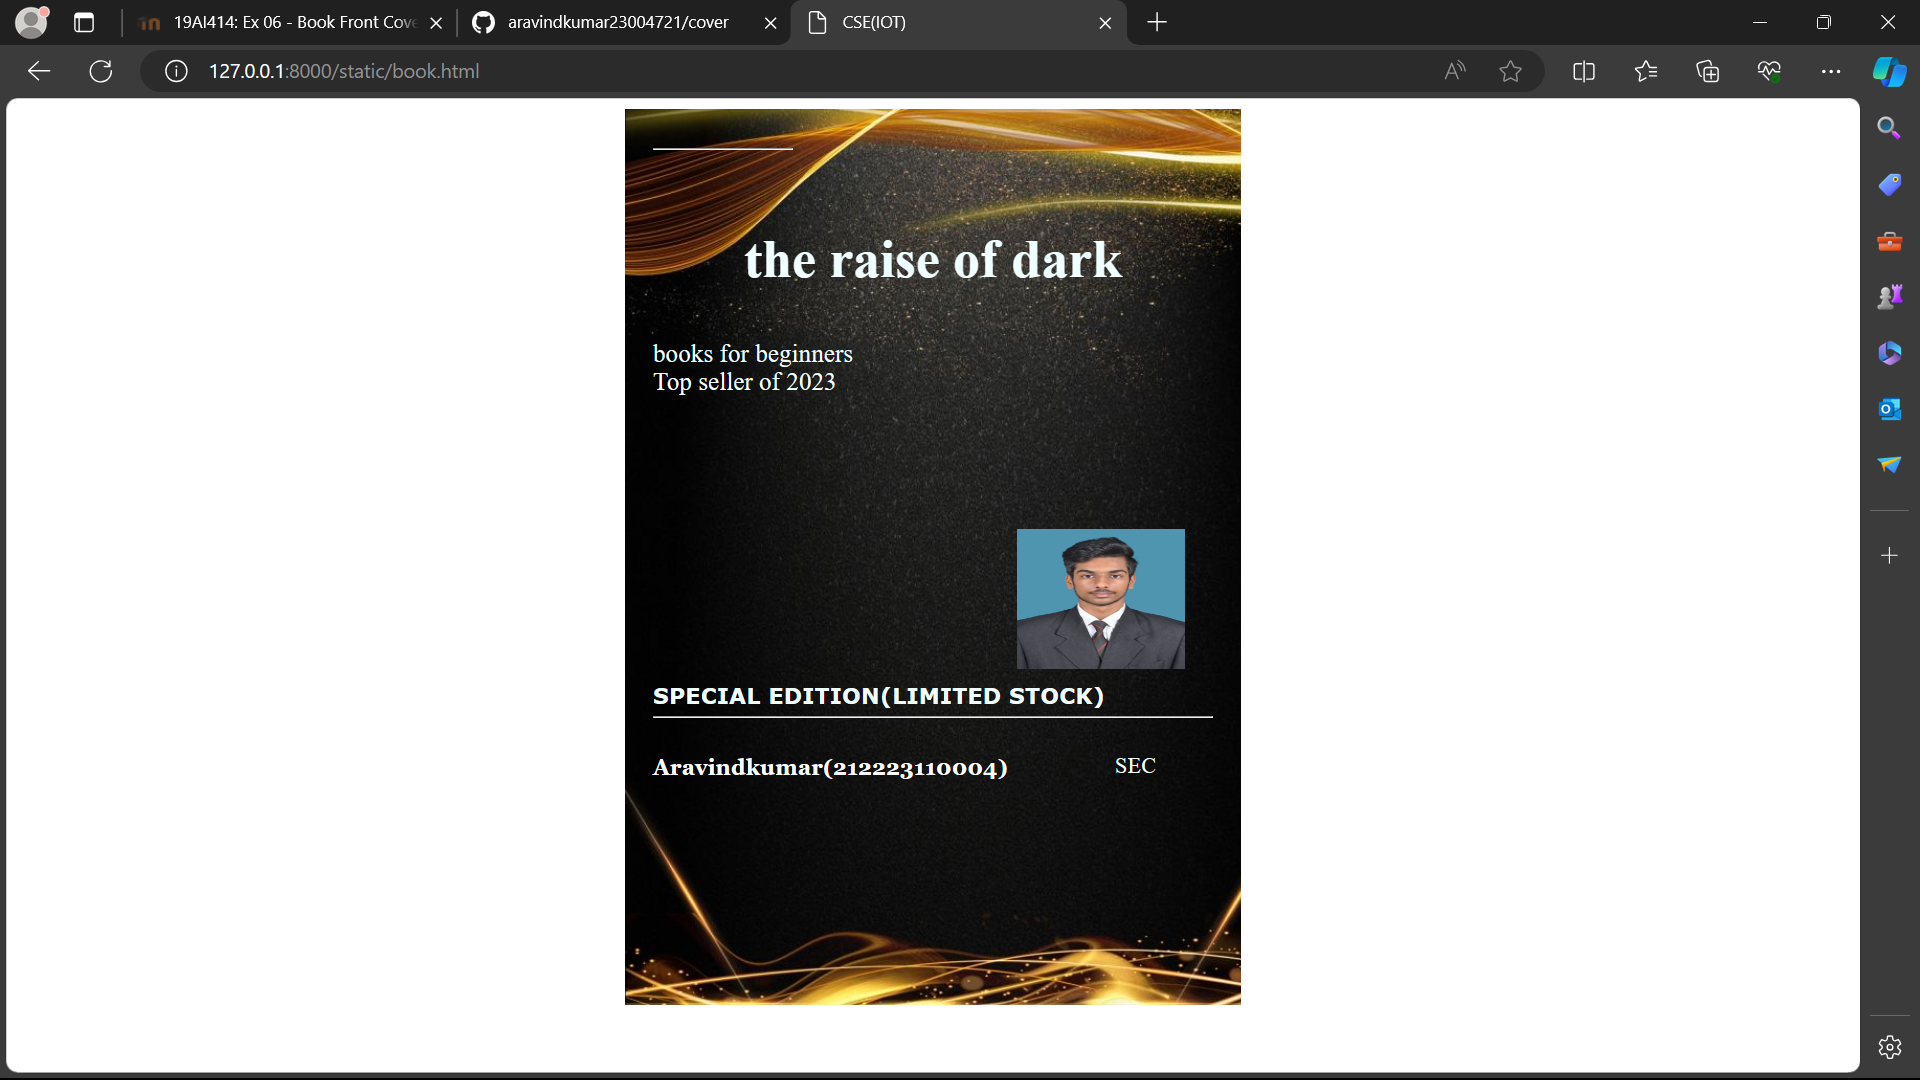
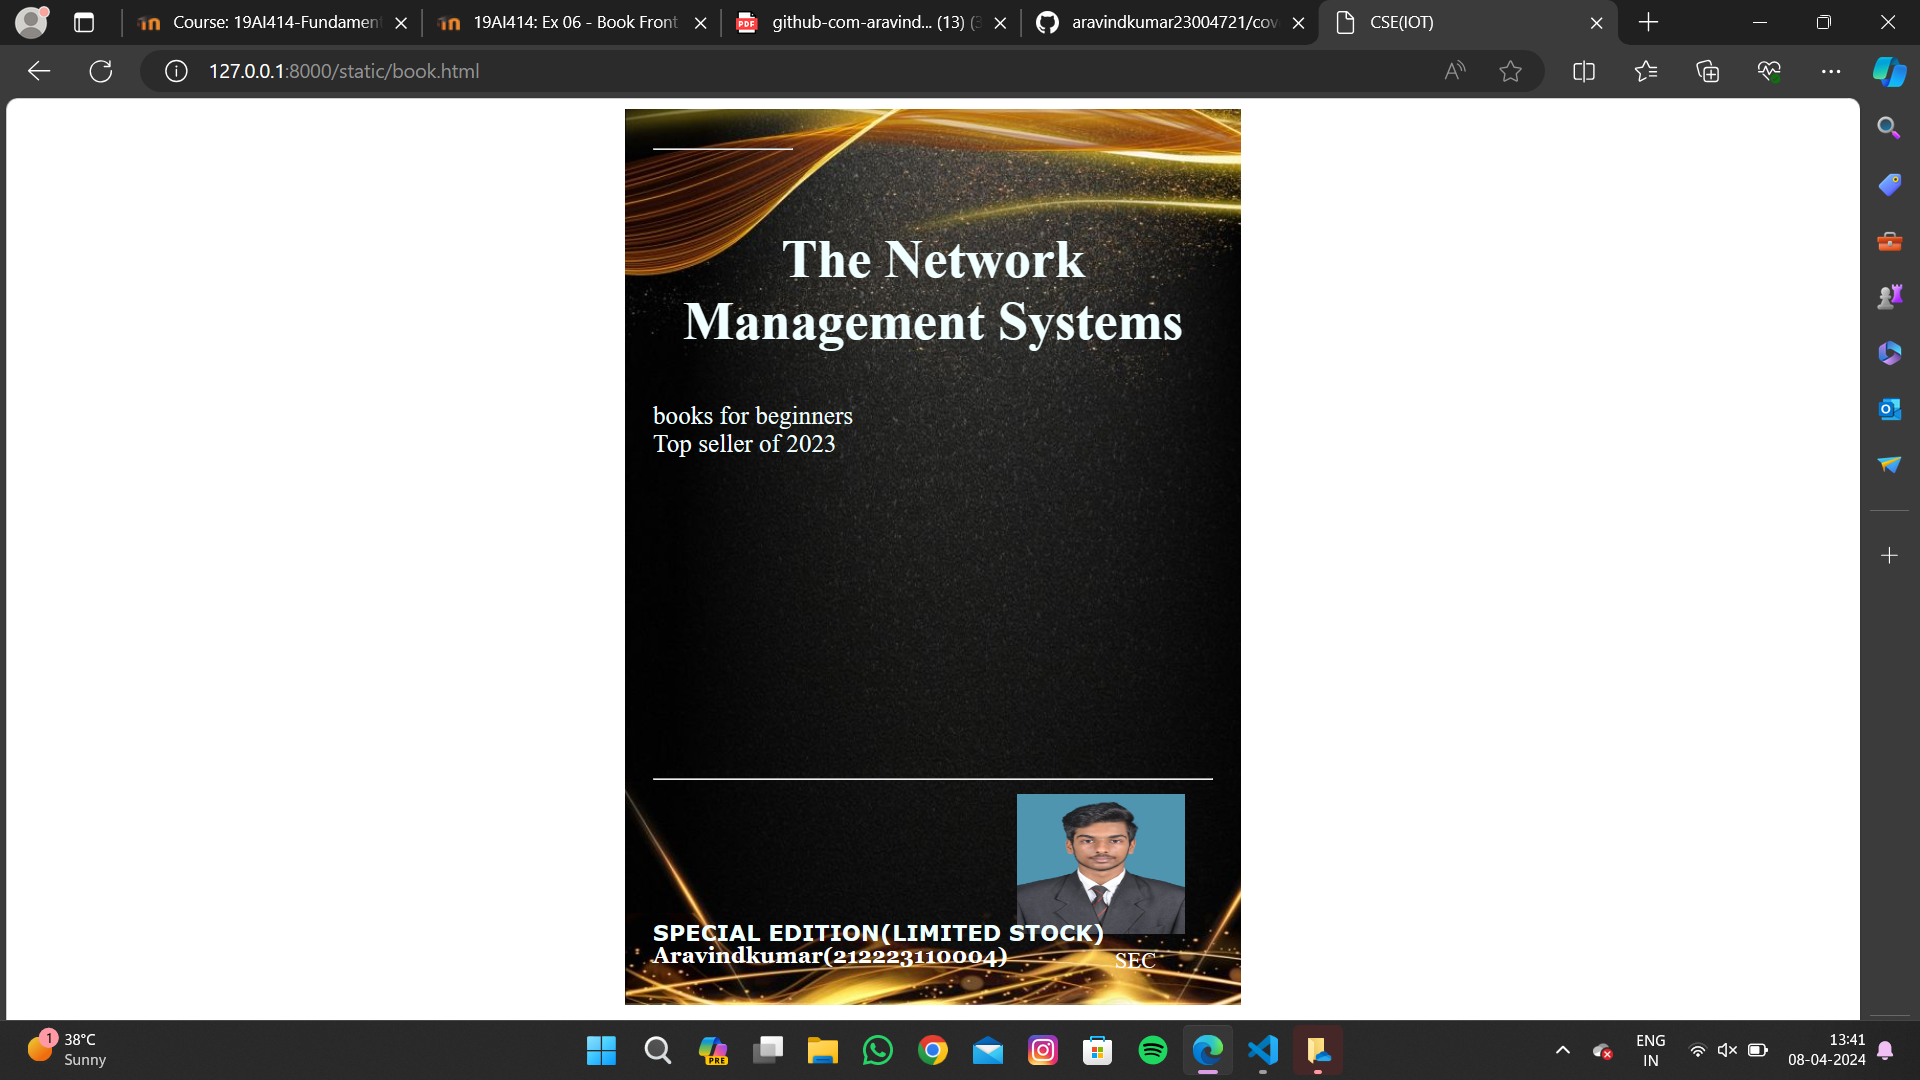
Success

diff --git a/aravind/bookapp/static/book.html b/aravind/bookapp/static/book.html
@@ -30,7 +30,7 @@
             display: inline;
             position: relative;
             color:rgb(255, 255, 255);
-            top:190px;
+            top:280px;
             
             font-family:Georgia;
             font-size: medium;
@@ -51,10 +51,10 @@
             
         }
         .pub{
-            color:azure;
+            color:white;
             font-size: medium;
             position: relative;
-            top:155px;
+            top:250px;
             left:330px;
         }
         .ed{
@@ -62,7 +62,7 @@
             font-size: medium;
             font-family: Verdana;
             position:relative;
-            top:85px;
+            top:210px;
         
         }
         .subtitle{
@@ -74,7 +74,7 @@
         }
         .mypic{
             position: relative;
-            top: 135px;
+            top: 280px;
             left: 260px;
             width: 90px;
             height: 80px;
@@ -92,7 +92,7 @@
                 <hr style="color:blanchedalmond">
             </div>
             <div class="booktitle">
-                <h1>the raise of dark</h1></div>
+                <h1>The Network Management Systems</h1></div>
             <div class="subtitle">
                  books for beginners
             </div>
